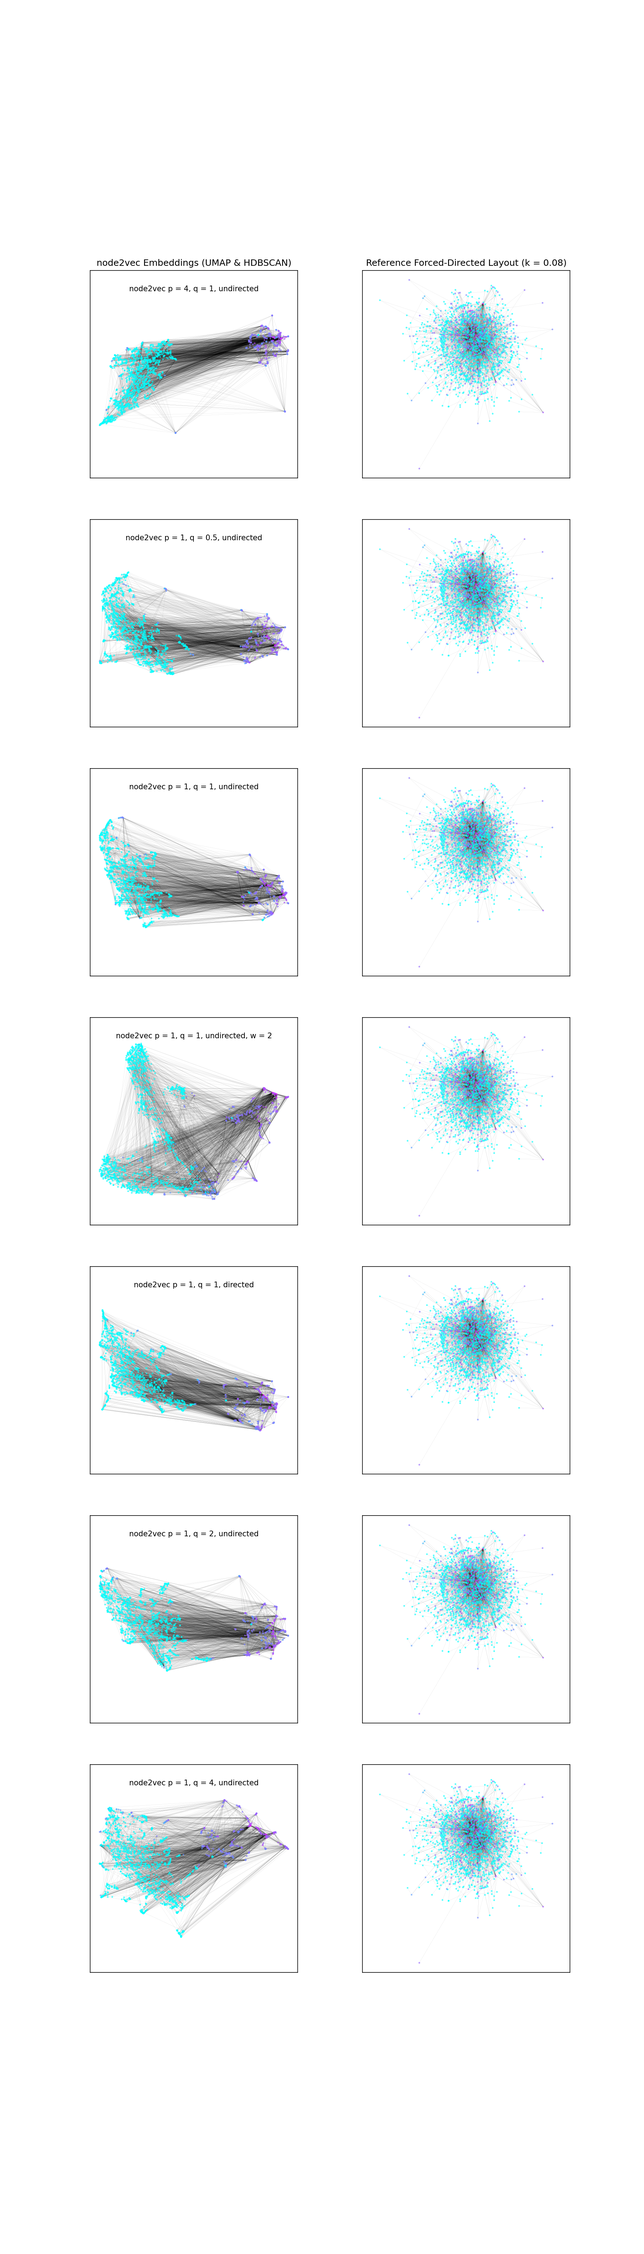
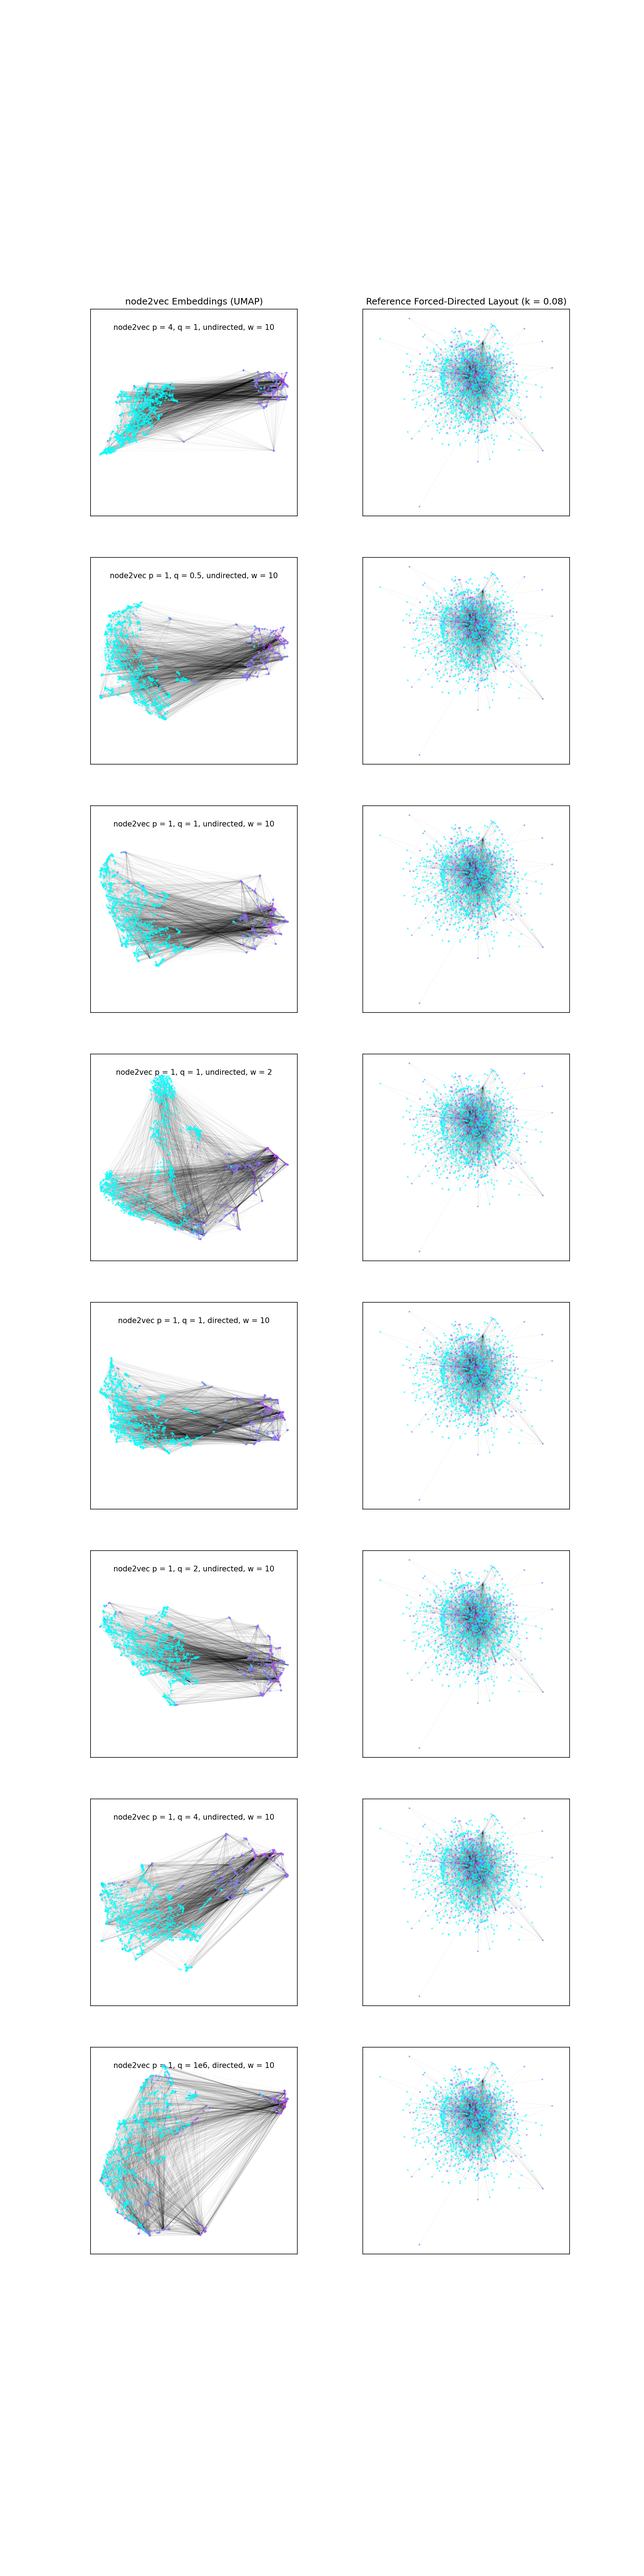
Added new embeddings (p = 1, q = 1e6, directed)

diff --git a/BIO/emmaa_8_v3_clustering.py b/BIO/emmaa_8_v3_clustering.py
@@ -43,18 +43,21 @@ nodeEmb_mitre.append(emlib.load_jsonl('./dist/v3/node2vec/G_mitre_p1_q1_n10len80
 nodeEmb_mitre.append(emlib.load_jsonl('./dist/v3/node2vec/G_mitre_p1_q1_n10len80_directed.jsonl', remove_preamble = False))
 nodeEmb_mitre.append(emlib.load_jsonl('./dist/v3/node2vec/G_mitre_p1_q2_n10len80_undirected.jsonl', remove_preamble = False))
 nodeEmb_mitre.append(emlib.load_jsonl('./dist/v3/node2vec/G_mitre_p1_q4_n10len80_undirected.jsonl', remove_preamble = False))
+nodeEmb_mitre.append(emlib.load_jsonl('./dist/v3/node2vec/G_mitre_p1_q1000000_n10len80_directed.jsonl', remove_preamble = False))
 
 
 emb_names = [
-    'node2vec p = 4, q = 1, undirected', 
-    'node2vec p = 1, q = 0.5, undirected', 
-    'node2vec p = 1, q = 1, undirected', 
+    'node2vec p = 4, q = 1, undirected, w = 10', 
+    'node2vec p = 1, q = 0.5, undirected, w = 10', 
+    'node2vec p = 1, q = 1, undirected, w = 10', 
     'node2vec p = 1, q = 1, undirected, w = 2', 
-    'node2vec p = 1, q = 1, directed', 
-    'node2vec p = 1, q = 2, undirected', 
-    'node2vec p = 1, q = 4, undirected',
+    'node2vec p = 1, q = 1, directed, w = 10', 
+    'node2vec p = 1, q = 2, undirected, w = 10', 
+    'node2vec p = 1, q = 4, undirected, w = 10',
+    'node2vec p = 1, q = 1e6, directed, w = 10', 
     ]
 
+# 'node2vec p = 1e6, q = 1, directed, w = 10'
 
 num_nodes = len(nodes_mitre)
 num_embs = len(nodeEmb_mitre)
@@ -82,7 +85,7 @@ model_umap = umap.UMAP(n_components = num_emb_dim_red, n_neighbors = 10, min_dis
 emb_nodes_red = [model_umap.fit_transform(emb) for emb in emb_nodes]
 emb_nodes_red = [emb - np.mean(emb, axis = 0) for emb in emb_nodes_red]
 
-# Time: 1 m 10 s
+# Time: 1 m 14 s
 
 # %%
 %%time
@@ -145,8 +148,12 @@ del m, n, h, h_red, x, fig, ax, ax_
 
 # %%
 # # Compare Dimensionally Reduced Node Embeddings with Reference Layout
+# 
+# ## Change Centrality Measures
 
 # %%
+%%time
+
 # Generate reference force-directed graph layout with NetworkX
 coors_nx, __, __, __ = emlib.generate_nx_layout(nodes = nodes_mitre, edges = edges_mitre, layout = 'spring', layout_atts = {'k': 0.08})
 
@@ -161,6 +168,9 @@ edge_list = {(map_ids_nodes[edge['source_id']], map_ids_nodes[edge['target_id']]
 # Load graph object to get graph measures
 with open('./dist/v3/G_mitre.pkl', 'rb') as x:
     G_mitre = pickle.load(x)
+
+x = None
+del x
 
 
 # Labels from centrality measures
@@ -188,18 +198,19 @@ for i in [0]:
 labels_name = ['Log Degree', 'Closeness', 'Harmonic']
 
 
-# time: 
+# time: 2.99 s
 
 # %%
 fig, ax = plt.subplots(nrows = len(labels), ncols = 2, figsize = (6 * 2, 6 * len(labels)))
 
-emb = emb_nodes_red[0]
+emb = emb_nodes_red[4]
 for i, (labels_, s) in enumerate(zip(labels, labels_name)):
 
-    __ = emlib.plot_emb(coor = emb, labels = labels_, cmap_name = 'cool', colorbar = False, marker_size = 2.0, edge_list = edge_list, ax = ax[i, 0], str_title = ' ')
+    __ = emlib.plot_emb(coor = -emb, labels = labels_, cmap_name = 'cool', colorbar = False, marker_size = 2.0, edge_list = edge_list, ax = ax[i, 0], str_title = ' ')
 
     __ = emlib.plot_emb(coor = np.array([v for __, v in coors_nx.items()]), labels = labels_, cmap_name = 'cool', colorbar = False, marker_size = 2.0, edge_list = edge_list, ax = ax[i, 1], str_title = ' ')
 
+    __ = ax[i, 0].text(0.5, 0.9, f"{emb_names[4]}", transform = ax[i, 0].transAxes, horizontalAlignment = 'center')
     # __ = ax[i, 0].text(0, 0.5, f"{s} Centrality", transform = ax[i, 0].transAxes, horizontalAlignment = 'center', rotation = 'vertical')
     __ = plt.setp(ax[i, 0], xlabel = '', ylabel = f"{s} Centrality")
     __ = plt.setp(ax[i, 1], xlabel = '', ylabel = '')
@@ -217,17 +228,9 @@ fig.savefig('./figures/v3/mitre_subgraph_node2vec_umap_centralities.png', dpi = 
 i = s = fig = ax = emb = labels_ = None
 del i, s, fig, ax, emb, labels_
 
-# %%
 
-
-
-
-# %%
-
-# Cluster labels
-# labels = np.array([0 if x < 5.0 else 1 for x in emb_nodes_red[0][:, 0]])
-
-
+# %%[markdown]
+# ## Change in Embedding Parameters
 
 # %%
 fig, ax = plt.subplots(nrows = num_embs, ncols = 2, figsize = (6 * 2, 6 * num_embs))
@@ -252,7 +255,7 @@ for i, (emb, s) in enumerate(zip(emb_nodes_red, emb_names)):
     ax[i, 1].tick_params(length = 0, labelbottom = False, labelleft = False)
 
 i = 0
-__ = plt.setp(ax[i, 0], title = 'node2vec Embeddings (UMAP & HDBSCAN)')
+__ = plt.setp(ax[i, 0], title = 'node2vec Embeddings (UMAP)')
 __ = plt.setp(ax[i, 1], title = 'Reference Forced-Directed Layout (k = 0.08)')
 
 
@@ -261,7 +264,68 @@ fig.savefig('./figures/v3/mitre_subgraph_node2vec_umap_pq.png', dpi = 150)
 i = s = fig = ax = emb = None
 del i, s, fig, ax, emb
 
+# %%[markdown]
+# ## Track by Clusters (UMAP Dim)
+
 # %%
+%%time
+
+# Generate cluster labels using the (p = 1, q = 4) embeddings
+
+# kwargs = {'metric': 'minkowski', 'p': 2.0 / 3.0, 'min_cluster_size': 2, 'min_samples': 3, 'cluster_selection_epsilon': 0.2}
+kwargs = {'metric': 'euclidean', 'min_cluster_size': 2, 'min_samples': 3, 'cluster_selection_epsilon': 0.5}
+clusterer = hdbscan.HDBSCAN(**kwargs)
+clusterer.fit(emb_nodes_red[-1])
+labels_ = clusterer.labels_
+# cluster_probs = clusterer.probabilities_
+# outlier_scores = clusterer.outlier_scores_
+# cluster_persist = clusterer.cluster_persistence_
+
+
+print(f'Number of clusters: {len(np.unique(labels_)):d}')
+print(f'Number of unclustered points: {sum(labels_ == -1):d} (of {num_nodes:d})')
+
+
+kwargs = clusterer = None
+del kwargs, clusterer
+
+# Time: 58.3 ms
+
+
+# %%
+fig, ax = plt.subplots(nrows = num_embs, ncols = 2, figsize = (6 * 2, 6 * num_embs))
+
+for i, (emb, s) in enumerate(zip(emb_nodes_red, emb_names)):
+
+    if i == 1:
+        __ = emlib.plot_emb(coor = emb, labels = labels_, cmap_name = 'qual', colorbar = False, marker_size = 2.0, edge_list = edge_list, ax = ax[i, 0], str_title = ' ')
+
+    else:
+        __ = emlib.plot_emb(coor = -emb, labels = labels_, cmap_name = 'qual', colorbar = False, edge_list = edge_list, ax = ax[i, 0], str_title = ' ')
+
+    __ = emlib.plot_emb(coor = np.array([v for __, v in coors_nx.items()]), labels = labels_, cmap_name = 'qual', colorbar = False, edge_list = edge_list, ax = ax[i, 1], str_title = ' ')
+
+    __ = ax[i, 0].text(0.5, 0.9, f"{s}", transform = ax[i, 0].transAxes, horizontalAlignment = 'center')
+    __ = plt.setp(ax[i, 0], xlabel = '', ylabel = '')
+    __ = plt.setp(ax[i, 1], xlabel = '', ylabel = '')
+    ax[i, 0].tick_params(length = 0, labelbottom = False, labelleft = False)
+    ax[i, 1].tick_params(length = 0, labelbottom = False, labelleft = False)
+
+i = 0
+__ = plt.setp(ax[i, 0], title = 'node2vec Embeddings (UMAP & HDBSCAN)')
+__ = plt.setp(ax[i, 1], title = 'Reference Forced-Directed Layout (k = 0.08)')
+
+
+fig.savefig('./figures/v3/mitre_subgraph_node2vec_umap_hdbscan_pq.png', dpi = 150)
+
+i = s = fig = ax = emb = None
+del i, s, fig, ax, emb
+
+# %%
+
+
+
+
 
 
 
